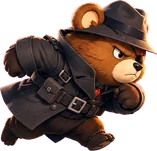
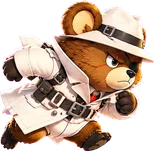
敵の動物スパイを全員、白いスーツにそろえる
ジャックラッセル・ヒグマ・コウモリを、白いスーツ (くろねこは元から白) の絵に差し替えた。
黒い帽子とコートの主人公と見分けがつき、敵は「白い組織」としてまとまる。
- 切り出しは前と同じ手順。ジャックラッセルだけ JPEG で届いたため、縁のにじみ (ピンクの点々) を
  背景判定をきつくする・縁のマゼンタ分を引く・縁を 2px 削る、で抜いた。明るい地の見本で確認
- 縮尺・大きさ・当たり判定は前のまま。足もとの中心 (ax) だけ測り直した

テスト: npm test 33 件 / npm run test:ui 75 件 (CPU 4 倍遅で 56fps)

Claude-Session: https://claude.ai/code/session_01NNSyqfQmULHfLFCt5M5Yii

diff --git a/art.js b/art.js
@@ -696,8 +696,8 @@
   const ESPR = {
     suit:  { run: ['./en-cat-run.webp', 0.52],  jump: ['./en-cat-jump.webp', 0.51],  hit: ['./en-cat-hit.webp', 0.55] },
     dog:   { run: ['./en-dog-run.webp', 0.54],  jump: ['./en-dog-jump.webp', 0.49],  hit: ['./en-dog-hit.webp', 0.54] },
-    big:   { run: ['./en-bear-run.webp', 0.49], jump: ['./en-bear-jump.webp', 0.51], hit: ['./en-bear-hit.webp', 0.58] },
-    drone: { fly1: ['./en-bat-fly1.webp', 0.53], fly2: ['./en-bat-fly2.webp', 0.52], hit: ['./en-bat-hit.webp', 0.53] }
+    big:   { run: ['./en-bear-run.webp', 0.49], jump: ['./en-bear-jump.webp', 0.49], hit: ['./en-bear-hit.webp', 0.55] },
+    drone: { fly1: ['./en-bat-fly1.webp', 0.52], fly2: ['./en-bat-fly2.webp', 0.49], hit: ['./en-bat-hit.webp', 0.52] }
   };
   const EK = 0.476;
   const VIS_H = { suit: 56, dog: 38, big: 72, drone: 44 };      // 絵の見かけの高さ (飾りの位置に使う)

diff --git a/CLAUDE.md b/CLAUDE.md
@@ -80,7 +80,7 @@ icon.png / apple-touch-icon.png   アイコン (iOS は SVG を使えない)
 - 撃つ姿は「うしろへ向けた絵 (左右反転)」。弾の出る所は `fireGun` の `sx, sy` (銃口の位置)。絵を差し替えたら合わせる
 - 走る絵は 1 枚だけ。上下のはずみ・ゆれ・つぶれは `drawSpy` で付ける
 - **敵は動物スパイ 4 人。** 中身のキー (`suit` `dog` `big` `drone`) は変えずに、見た目だけ差し替えた:
-  `suit`=くろねこ (白いコート)・`dog`=ジャックラッセル・`big`=ヒグマ・`drone`=コウモリ。
+  `suit`=くろねこ・`dog`=ジャックラッセル・`big`=ヒグマ・`drone`=コウモリ。**敵は全員、白いスーツ (白いコート) でそろえる** (黒い帽子とコートの主人公と見分けがつく)。
   絵は `art.js` の `ESPR` (ファイルと足もとの中心)。4 人とも同じ縮尺 `EK` (世界 1 に対し絵 2.1px)、見かけの高さは `VIS_H`。
   しびれ・凍結・あわのあいだと、やられて飛んでいくときは「やられ」の絵。コウモリは 2 枚をはばたく。足すときは ESPR と VIS_H に 1 行ずつ
 - 敵の絵を足すときの切り出しは、キツネのときと同じ (背景色からの距離で抜く)。ポーズは**つながった塊**で分け、しぶきの小さな塊は近い大きな塊に付ける
@@ -282,5 +282,6 @@ icon.png / apple-touch-icon.png   アイコン (iOS は SVG を使えない)
 | 4 つのポーズが並んだ絵を切り分けたら、隣のポーズとくっついて 1 つの塊になった | 塊を「のりしろ (ふくらまし) でつなげて」見つけていた。しぶきや翼が隣のポーズに近く、広げるとつながった (4 枚中 3 枚で失敗) | のりしろは使わず、**つながった塊**ごとに分ける。大きい塊の上位 4 つを本体にして、小さな塊 (しぶきのしずく) は**いちばん近い本体**へ付ける。切り出したら 4 人ぶんの見本を暗い地と明るい地で見る |
 | 車を足したら、ちょん跳びでは越えられなくなった (自動プレイが落ちた) | 車は幅 64・高さ 34。ちょん跳び (頂点 37) は、足が高さ 28 を超えている時間が約 0.1 秒しかなく、車の幅 (78) を渡りきれない | 幅の広い物 (50 以上) は、押しつづけるジャンプで越える (`jumpPlan` の `wide`: 手前 0.3 秒ぶんから跳び、まんなかを過ぎたら離す)。ちょん跳びで落ちることと、押しつづければ越えることを、両方見張る |
 | 遠くへ瞬間移動するテストが、`buildingAt` の `null` で落ちた | 世界は「いまの位置の先 2500px まで」しか作らない。飛ばした先はまだ作られていなかった | 飛ばす前に `Core.ensure(world, 行き先 + 4000)` を呼ぶ |
+| JPEG で届いた敵の絵を抜いたら、縁にピンクの点々が残った (暗い地では見えず、明るい地で見えた) | JPEG は縁の色がにじみ、背景のマゼンタが混ざった画素が「半透明の縁」として残った。背景の判定が PNG と同じ値では甘い | 背景の判定をきつくする (距離 95〜150)。縁の画素から、赤と青が緑より強い分を引く。それでも残るぶん、縁を 2px 削る。**明るい地に置いた見本**で確かめる (暗い地だけだと見えない) |
 
 **新しく踏んだら、この表に足すこと。**
